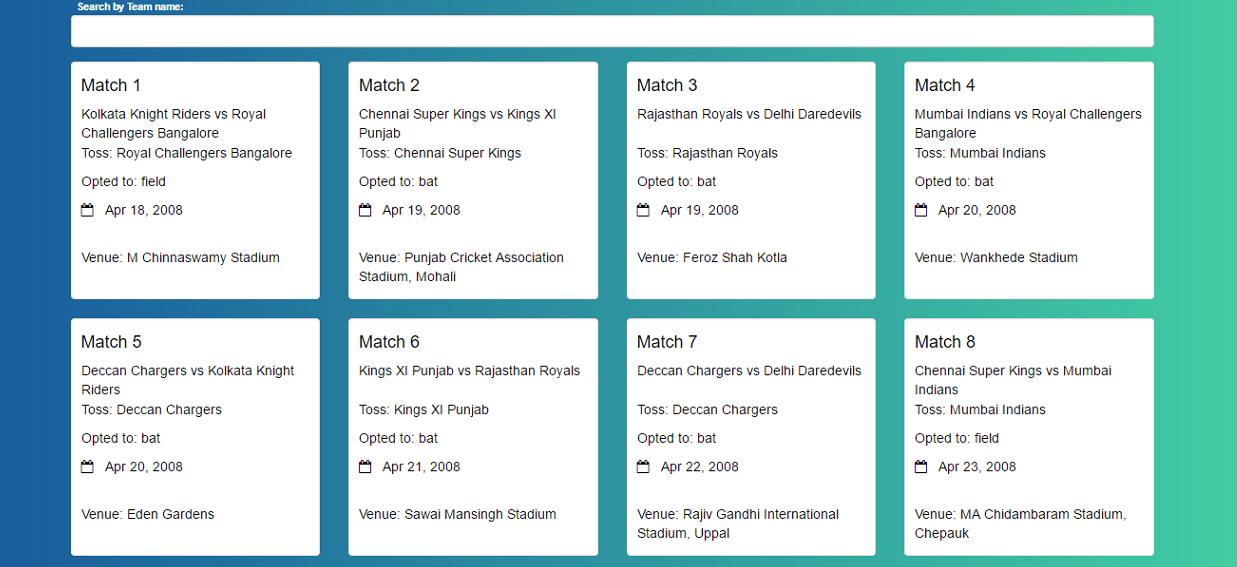
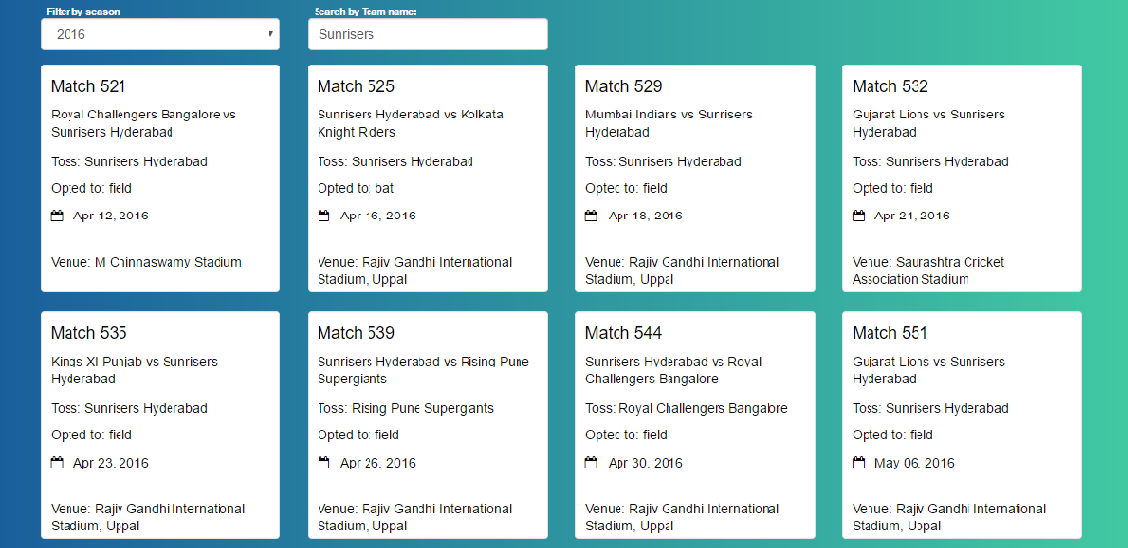
added search-by-seasons filter

Changed region(s): [[0.031, 0.0, 0.9619, 0.9927]]

diff --git a/src/app/match-list/match-list.component.html b/src/app/match-list/match-list.component.html
@@ -1,6 +1,14 @@
 <div class="container">
   <div class="row">
-    <div class="col-sm-12">
+    <div class="col-sm-3">
+      <div class="form-group">
+        <label class="label">Filter by season</label>
+        <select class="form-control" name="season" [(ngModel)]="season">
+          <option *ngFor="let season of seasons" [value]="season">{{season}}</option>
+        </select>
+      </div>
+    </div>
+    <div class="col-sm-3">
       <div class="form-group">
         <label class="label">Search by Team name:</label>
         <input type="text" class="form-control" [(ngModel)]="teamName" name="teamName"/>
@@ -8,7 +16,7 @@
     </div>
   </div>
   <div class="row">
-    <div class="col-sm-3" *ngFor="let match of matches | filterTeams:teamName">
+    <div class="col-sm-3" *ngFor="let match of matches | filterTeams:teamName | filterSeasons:season">
       <a routerLink="/matches/season/{{match.season}}/match/{{match.id}}" class="match-link">
         <div class="well match">
           <div class="match-title">

diff --git a/src/app/match-list/match-list.component.ts b/src/app/match-list/match-list.component.ts
@@ -11,10 +11,25 @@ export class MatchListComponent implements OnInit {
 
   matches = [];
   teamName: String;
+  seasons: Number[];
   constructor(private matchService: MatchService) { }
 
   ngOnInit() {
-    this.matchService.getMatches().subscribe(matches => this.matches = matches);
+    this.matchService.getMatches().subscribe(matches => {
+      this.matches = matches;
+      this.getSeasons();
+    });
+  }
+
+  getSeasons(){
+    this.seasons = [];
+    this.matches.forEach((match, index) => {
+      if(this.seasons.length < 1){
+        this.seasons.push(match.season);
+      }else if(this.seasons.indexOf(match.season) == -1){
+        this.seasons.push(match.season);
+      }
+    });
   }
 
 }

diff --git a/src/app/app.module.ts b/src/app/app.module.ts
@@ -11,6 +11,7 @@ import { MatchListComponent } from './match-list/match-list.component';
 import { MatchDetailsComponent } from './match-details/match-details.component';
 import { MatchSummaryComponent } from './match-summary/match-summary.component';
 import { FilterTeamsPipe } from './filter-teams.pipe';
+import { FilterSeasonsPipe } from './filter-seasons.pipe';
 
 @NgModule({
   declarations: [
@@ -18,7 +19,8 @@ import { FilterTeamsPipe } from './filter-teams.pipe';
     MatchListComponent,
     MatchDetailsComponent,
     MatchSummaryComponent,
-    FilterTeamsPipe
+    FilterTeamsPipe,
+    FilterSeasonsPipe
   ],
   imports: [
     BrowserModule,

diff --git a/src/app/filter-seasons.pipe.ts b/src/app/filter-seasons.pipe.ts
@@ -1,0 +1,17 @@
+import { Pipe, PipeTransform } from '@angular/core';
+
+@Pipe({
+  name: 'filterSeasons',
+  pure: false
+})
+export class FilterSeasonsPipe implements PipeTransform {
+
+  transform(value: any[], args?: any): any {
+    if(args){
+      return value.filter(item => (item.season == args) );
+    }else{
+      return value;
+    }
+  }
+
+}

diff --git a/src/app/filter-seasons.pipe.spec.ts b/src/app/filter-seasons.pipe.spec.ts
@@ -1,0 +1,11 @@
+/* tslint:disable:no-unused-variable */
+
+import { TestBed, async } from '@angular/core/testing';
+import { FilterSeasonsPipe } from './filter-seasons.pipe';
+
+describe('FilterSeasonsPipe', () => {
+  it('create an instance', () => {
+    const pipe = new FilterSeasonsPipe();
+    expect(pipe).toBeTruthy();
+  });
+});
